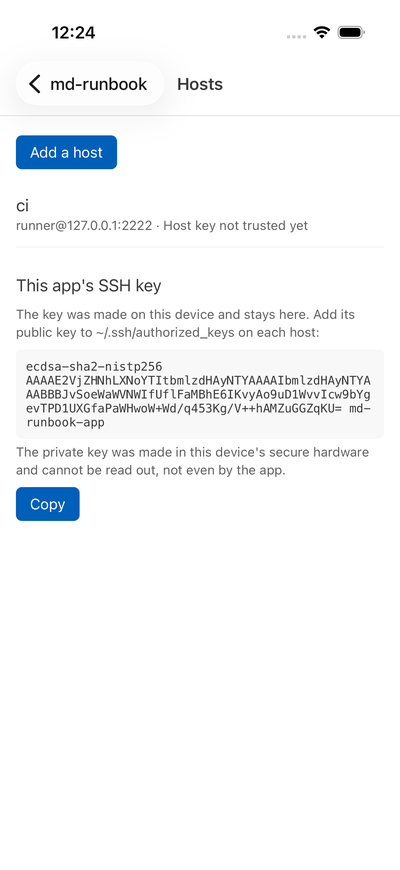
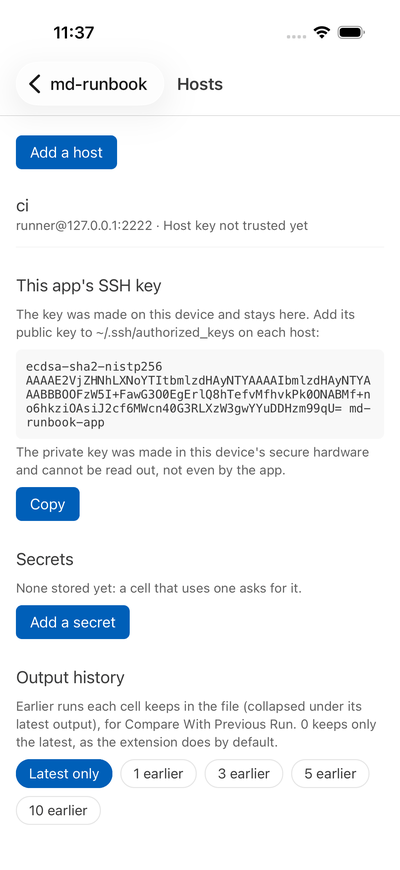
Docs: app screenshots from the App CI run of 2026-10-22 (4d86212)
The run bar (Run all / Continue, More), the hosts screen with secrets and output history, and
the line actions with Breakpoint and Explain; captions to match.

diff --git a/docs/app.md b/docs/app.md
@@ -6,8 +6,8 @@ blocks, so a runbook can move between the two.
 
 It is not in the App Store or Google Play yet. To try it, see [Try it](#try-it) below.
 
-The screenshots come from the app's CI run: an iPhone simulator, an Android emulator and
-Chromium, against a throwaway SSH server.
+The screenshots come from the app's CI run of 2026-10-22: an iPhone simulator, an Android
+emulator and Chromium, against a throwaway SSH server.
 
 ## A runbook
 
@@ -49,7 +49,7 @@ Explain Output, Approve / Reject a proposal. The [cheat sheet](cheatsheet.md) ha
 
 ## Hosts and the app's key
 
-<img src="app/ios-hosts.png" width="320" alt="The Hosts screen: one host, and the app's public SSH key with a Copy button">
+<img src="app/ios-hosts.png" width="320" alt="The Hosts screen: one host, the app's public SSH key with a Copy button, secrets and output history">
 
 You add each server once: a name, its address and the user to log in as. The app makes its own
 SSH key on first use. On phones the private key is made inside the secure hardware (the Secure
@@ -84,7 +84,7 @@ The app runs `sh` and `bash` cells on Linux and macOS servers. `pwsh`, `powershe
 cells, and blocks marked `os=windows`, are shown with their saved output but not run: use VS
 Code or the command line for those.
 
-<img src="app/web-line-actions-dark.png" width="720" alt="The web app in dark mode: a code line tapped, with Run line 2, Run lines 1-2 and Check under it">
+<img src="app/web-line-actions-dark.png" width="720" alt="The web app in dark mode: a code line tapped, with Run line 2, Run lines 1-2, Check, Breakpoint and Explain under it">
 
 ## In a browser, through the relay
 
